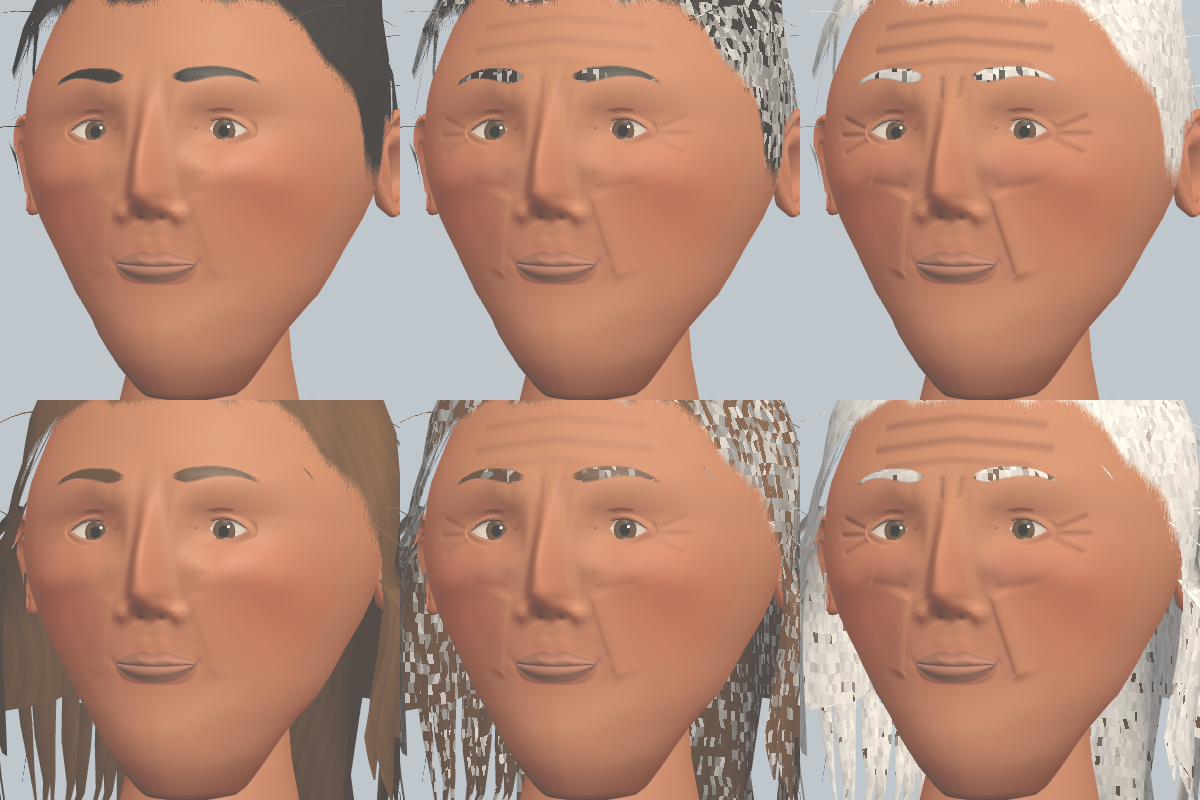
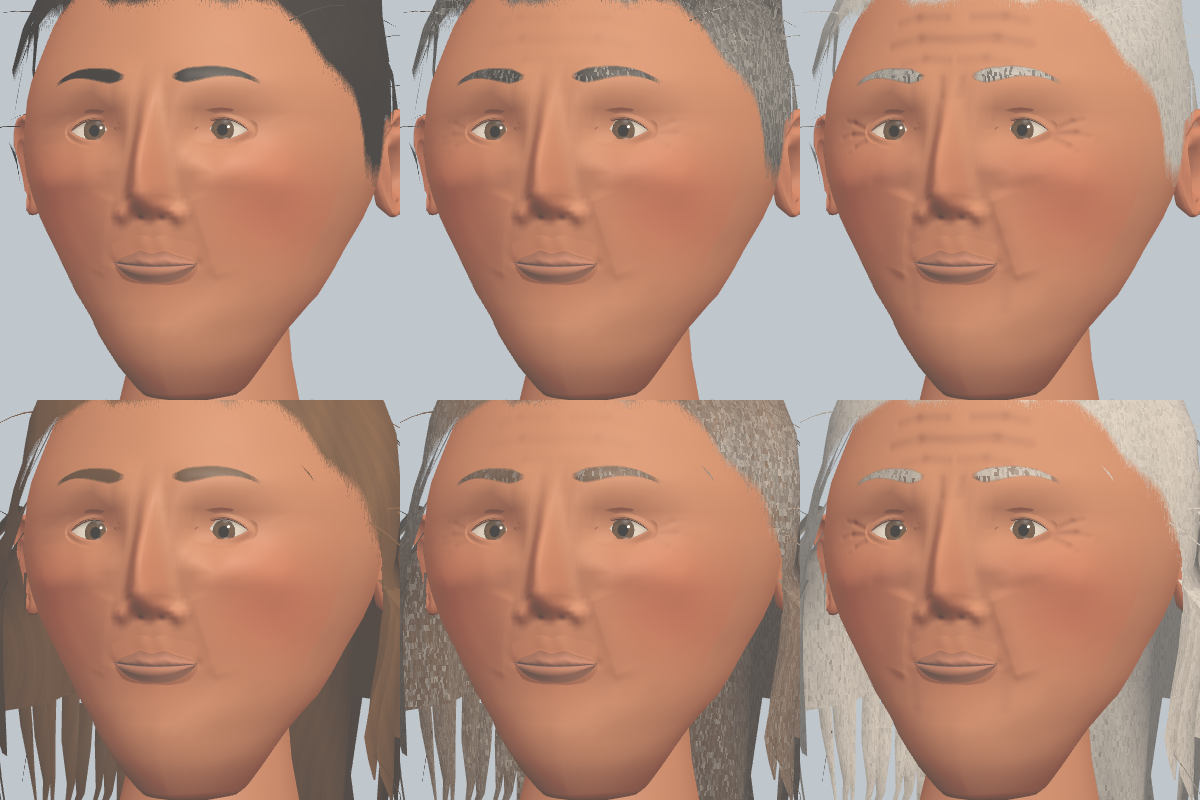
Age: fine strand-scale salt-and-pepper (soft warm off-white blend, averaged by the pixel footprint) and soft, curved, broken folds with a wider nasolabial crease, marionette and jowl softening; folds ease in (power 1.5); recaptured sheets. Refs #2155

diff --git a/src/config.js b/src/config.js
@@ -4688,28 +4688,29 @@ export function skinVarCode(look) {
 //    crow's feet, an under-eye bag with the tear trough below it and a deeper nasolabial fold. `shade` = how much a groove darkens the albedo
 //    (per `shadeDepth` m of depth), `bag` the under-eye bag's darker tint ([x, y, half-width, half-height], `bagTint` colour, `bagK` strength).
 //  - `grey`: the share of grey strands = `grey.max` × ((step − `grey.from`) / (last − from))^`grey.power`; `temple` = extra share in the temples
-//    (zone [|x| from, to, y, σ y]) and `mouth` around the mouth for the beard; `cell` m = one strand's width for the salt-and-pepper noise, `stretch` × as long (hair mostly runs down);
+//    (zone [|x| from, to, y, σ y]) and `mouth` around the mouth for the beard; `cell` m = one strand's width for the fine salt-and-pepper noise (a soft blend, not black / white; averaged out by the pixel footprint), `stretch` × as long (hair mostly runs down);
 //    `tone` [mid grey, white] linear albedo the strands move between from `white.from` to the last step; `brow` = the brows' share of it.
 //  - `matte`: the skin's added roughness at the last step.
 export const AVATAR_AGE = {
   tag: 'q', steps: 11,
-  fold: { from: 1 },
-  forms: {
-    forehead1: [-0.0009, 0, 0.1495, 0.046, 0.146, 0.0021, 0],
-    forehead2: [-0.0008, 0, 0.1605, 0.042, 0.1575, 0.0021, 0],
-    forehead3: [-0.0006, 0, 0.1395, 0.038, 0.137, 0.002, 0],
-    glabella: [-0.0006, 0.0045, 0.1225, 0.0052, 0.1305, 0.0016, 0.3],
-    crow1: [-0.0007, 0.052, 0.1085, 0.064, 0.1135, 0.0015, 0.5],
-    crow2: [-0.0008, 0.052, 0.1055, 0.066, 0.1055, 0.0015, 0.5],
-    crow3: [-0.0007, 0.051, 0.1025, 0.063, 0.097, 0.0015, 0.5],
-    bag: [0.0007, 0.02, 0.0885, 0.044, 0.0885, 0.0055, 0],
-    trough: [-0.0005, 0.025, 0.0805, 0.042, 0.0825, 0.0024, 0],
-    nasolabial: [0.0013, 0.0225, 0.0735, 0.033, 0.040, 0.0028, 1.2, 0.008],
-    nasolabialLine: [-0.0007, 0.0205, 0.0735, 0.031, 0.040, 0.0018, 1.2],
+  fold: { from: 1, power: 1.5 },
+  forms: { // soft, slightly curved, broken lines (chains of short segments, mirrored in x): follow the anatomy, not a ruler
+    forehead1a: [-0.0006, 0, 0.1495, 0.02, 0.1505, 0.0027, 0], forehead1b: [-0.0005, 0.02, 0.1505, 0.037, 0.1478, 0.0026, 0],
+    forehead2a: [-0.0005, 0.007, 0.1608, 0.023, 0.1614, 0.0026, 0], forehead2b: [-0.0004, 0.023, 0.1614, 0.034, 0.1592, 0.0024, 0],
+    forehead3a: [-0.0004, 0.003, 0.1395, 0.016, 0.1404, 0.0025, 0], forehead3b: [-0.0003, 0.016, 0.1404, 0.028, 0.1384, 0.0024, 0],
+    glabella: [-0.0004, 0.0045, 0.1225, 0.0052, 0.1305, 0.0022, 0.3],
+    crow1a: [-0.0005, 0.052, 0.1085, 0.058, 0.1112, 0.0015, 0.5], crow1b: [-0.0003, 0.058, 0.1112, 0.063, 0.1122, 0.0014, 0.5],
+    crow2a: [-0.0006, 0.052, 0.1055, 0.06, 0.1058, 0.0016, 0.5], crow2b: [-0.0003, 0.06, 0.1058, 0.066, 0.1044, 0.0015, 0.5],
+    crow3a: [-0.0005, 0.051, 0.1025, 0.057, 0.0997, 0.0015, 0.5], crow3b: [-0.0002, 0.057, 0.0997, 0.061, 0.0968, 0.0014, 0.5],
+    bag: [0.0006, 0.02, 0.0885, 0.044, 0.0885, 0.0065, 0],
+    trough: [-0.0003, 0.025, 0.0805, 0.042, 0.0825, 0.0034, 0],
+    nasolabial: [0.0009, 0.0225, 0.0735, 0.033, 0.040, 0.0034, 1.2, 0.009],
+    nasolabialLineA: [-0.0004, 0.0205, 0.0735, 0.0252, 0.0575, 0.0042, 1.2], nasolabialLineB: [-0.0004, 0.0252, 0.0575, 0.0302, 0.0425, 0.0042, 1.2],
+    marionette: [-0.0003, 0.0262, 0.039, 0.0268, 0.022, 0.0035, 0], jowl: [0.0004, 0.05, 0.034, 0.04, 0.012, 0.007, 0],
   },
-  shade: 0.32, shadeDepth: 0.0009, bag: [0.032, 0.0885, 0.022, 0.0085], bagTint: [0.74, 0.62, 0.7], bagK: 0.75,
-  grey: { from: 2, max: 0.95, power: 1.1 }, temple: [0.5, 0.055, 0.075, 0.135, 0.035], mouth: 0.35, cell: 0.0026, stretch: 2.2,
-  white: { from: 3 }, tone: [0.3, 0.8], brow: 0.8, matte: 0.22,
+  shade: 0.2, shadeDepth: 0.0007, bag: [0.032, 0.0885, 0.022, 0.0085], bagTint: [0.8, 0.7, 0.76], bagK: 0.6,
+  grey: { from: 2, max: 0.95, power: 1.1 }, temple: [0.5, 0.055, 0.075, 0.135, 0.035], mouth: 0.35, cell: 0.0011, stretch: 3, strength: 0.8,
+  white: { from: 3 }, tone: [0.27, 0.66], warm: [1.0, 0.975, 0.93], brow: 0.8, matte: 0.22,
 };
 // #2044 (part of #2042) the face's sculpted forms (src/avatarsculpt.js), all *guess* by eye against the avatar head in raking light and
 // backlight, not measured. Head-bone frame before faceWarp (metres; eye centre y 0.107, lip seam 0.043). Each form is

diff --git a/src/avatarage.js b/src/avatarage.js
@@ -23,7 +23,7 @@ const smooth = (e0, e1, x) => { const t = clamp01((x - e0) / (e1 - e0)); return 
  * temple (extra grey share in the temples), bag (0 … 1), matte (added roughness). All 0 at step 0. */
 export function ageParams(step) {
   const last = A.steps - 1, a = Math.min(last, Math.max(0, Math.round(Number(step) || 0)));
-  const fold = clamp01((a - A.fold.from) / (last - A.fold.from));
+  const fold = clamp01((a - A.fold.from) / (last - A.fold.from)) ** A.fold.power;
   const grey = A.grey.max * clamp01((a - A.grey.from) / (last - A.grey.from)) ** A.grey.power;
   const temple = a > 0 ? A.temple[0] * clamp01(a / 4) : 0;
   return { age: a, fold, grey, white: clamp01((a - A.white.from) / (last - A.white.from)), temple, bag: clamp01((a - 1) / (last - 1)), matte: A.matte * fold };
@@ -85,12 +85,12 @@ export function ageColor({ head, part, region }) {
           float agN = fract(sin(dot(agC, vec3(12.9898, 78.233, 37.719)) + uAge.w * 91.7) * 43758.5453);
           float agN2 = fract(sin(dot(agC, vec3(39.346, 11.135, 83.155)) + uAge.w * 53.1) * 24634.6345);
           float agFrac = clamp((uAge.y * (agBrow ? ${f(A.brow)} : 1.0)) + uAge2.z * agTemple + agMouth * uAge.y, 0.0, 1.0);
-          float agFar = smoothstep(${f(A.cell * 0.6)}, ${f(A.cell * 1.8)}, agFp); // beyond a strand's size: the mean tone
-          float agGrey = mix(1.0 - smoothstep(agFrac - 0.04, agFrac + 0.04, agN), agFrac, agFar);
+          float agFar = smoothstep(${f(A.cell * 0.4)}, ${f(A.cell * 1.2)}, agFp); // beyond a strand's size: the mean tone
+          float agGrey = mix(1.0 - smoothstep(agFrac - 0.12, agFrac + 0.12, agN), agFrac, agFar); // soft threshold, then the mean
           float agW = clamp(uAge2.y * 1.4 - 0.2 + (agN2 - 0.5) * 0.7, 0.0, 1.0); // salt-and-pepper: mid grey strands, white ones later
           float agCov = agBeard ? beardCov : agBrow ? browCov : 1.0;
-          vec3 agTone = vec3(mix(${f(A.tone[0])}, ${f(A.tone[1])}, agW)) * (0.85 + 0.3 * agN2);
-          diffuseColor.rgb = mix(diffuseColor.rgb, agTone, agGrey * agCov * (agBrow ? 0.9 : 1.0));
+          vec3 agTone = ${v3(A.warm)} * mix(${f(A.tone[0])}, ${f(A.tone[1])}, agW) * (0.9 + 0.2 * agN2);
+          diffuseColor.rgb = mix(diffuseColor.rgb, agTone, agGrey * agCov * ${f(A.strength)} * (agBrow ? 0.9 : 1.0));
         }
       }
     }`;
